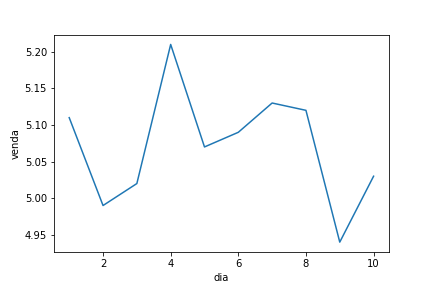
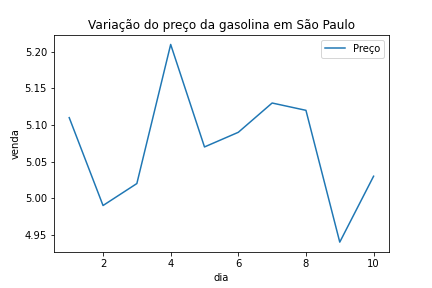
gráfico sobre o preço da gasolina alterado

Changed region(s): [[0.1806, 0.0625, 0.9028, 0.2188]]

diff --git a/gasolina.py b/gasolina.py
@@ -9,4 +9,6 @@ data = pd.read_csv('gasolina.csv')
 data.head()
 
 gasolina = sns.lineplot(x = 'dia',y='venda',data=data)
+gasolina.set_title("Variação do preço da gasolina em São Paulo")
+plt.legend(labels=["Preço"])
 plt.savefig('gasolina.png')
